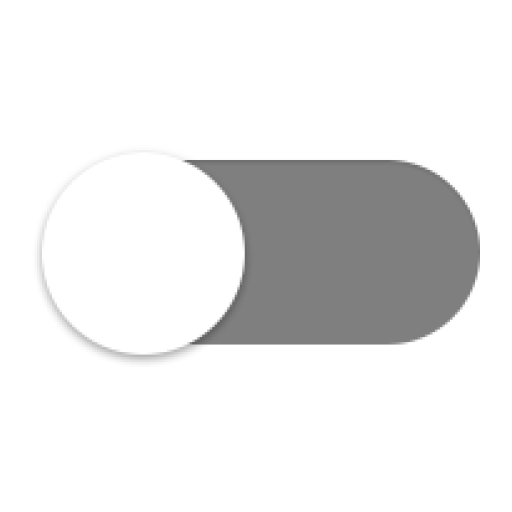
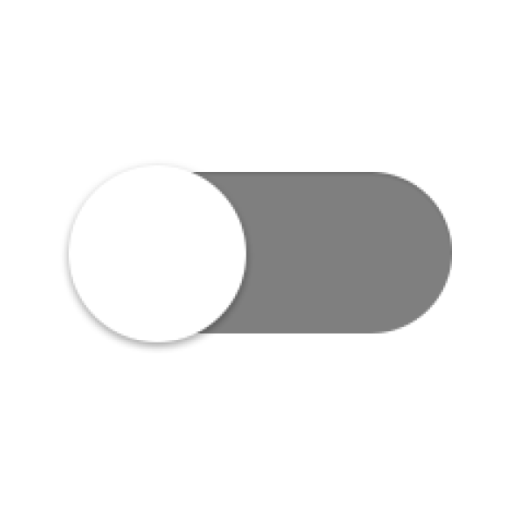
sharedPreference를 활용하여 토글바 기능 구현 50% 구현 완료

diff --git a/app/src/main/java/kr/hs/emirim/parksodam/mirimbreadclock2/notice/MyAlarmAdapter.java b/app/src/main/java/kr/hs/emirim/parksodam/mirimbreadclock2/notice/MyAlarmAdapter.java
@@ -6,6 +6,8 @@ package kr.hs.emirim.parksodam.mirimbreadclock2.notice;
 
 
 import android.content.Context;
+import android.content.SharedPreferences;
+import android.util.Log;
 import android.view.LayoutInflater;
 import android.view.View;
 import android.view.ViewGroup;
@@ -13,19 +15,31 @@ import android.widget.BaseAdapter;
 import android.widget.ImageView;
 import android.widget.TextView;
 
+import com.google.firebase.auth.FirebaseAuth;
+import com.google.firebase.database.DatabaseReference;
+import com.google.firebase.database.FirebaseDatabase;
 import com.squareup.picasso.Picasso;
 
 import java.util.ArrayList;
 
+import kr.hs.emirim.parksodam.mirimbreadclock2.BarActivity;
 import kr.hs.emirim.parksodam.mirimbreadclock2.R;
 import kr.hs.emirim.parksodam.mirimbreadclock2.model.BookmarkBakery;
 
+import static android.content.ContentValues.TAG;
+import static android.content.Context.MODE_PRIVATE;
+
 public class MyAlarmAdapter extends BaseAdapter{
+    public final String PREFERENCE = "kr.hs.emirim.parksodam.mirimbreadclock2.notice";
     /* 아이템을 세트로 담기 위한 어레이 */
     private ArrayList<BookmarkBakery> mItems = new ArrayList<>();
+    private Context theContext;
+    private DatabaseReference mDatabase = FirebaseDatabase.getInstance().getReference();
+    private FirebaseAuth mAuth = FirebaseAuth.getInstance();
+    public MyAlarmAdapter(Context context, ArrayList<BookmarkBakery> mItems) {
 
-    public MyAlarmAdapter(ArrayList<BookmarkBakery> mItems) {
         this.mItems = mItems;
+        theContext = context;
     }
 
     @Override
@@ -51,15 +65,28 @@ public class MyAlarmAdapter extends BaseAdapter{
             LayoutInflater inflater = (LayoutInflater) context.getSystemService(Context.LAYOUT_INFLATER_SERVICE);
             convertView = inflater.inflate(R.layout.listview_alarm_custom, parent, false);
         }
+         /* 각 리스트에 뿌려줄 아이템을 받아오는데 mMyItem 재활용 */
+        final BookmarkBakery bookmarkBakery = getItem(position);
         /* 'listview_info_custom'에 정의된 위젯에 대한 참조 획득 */
         ImageView iv_img = (ImageView) convertView.findViewById(R.id.iv_img);
         TextView tv_name = (TextView) convertView.findViewById(R.id.tv_name);
         TextView tv_contents = (TextView) convertView.findViewById(R.id.tv_contents);
         final ImageView iv_image = (ImageView) convertView.findViewById(R.id.toggle_on);
 
+        if(getPreferenceBoolean(bookmarkBakery.name,bookmarkBakery.checked)){
+            iv_image.setImageResource(R.mipmap.toggle_on);
+            DatabaseReference bookmarkRef = ((BarActivity) theContext).mDatabase.getInstance().getReference("users/" + mAuth.getCurrentUser().getUid() + "/alarms/" + bookmarkBakery.uid);
+            Log.e(TAG, "알람 삭제 : " + bookmarkBakery.uid);
+            bookmarkRef.setValue(null);
+            notifyDataSetChanged();
+        }
+        else{
+            iv_image.setImageResource(R.mipmap.toggle_off);
+            notifyDataSetChanged();
+        }
 
-        /* 각 리스트에 뿌려줄 아이템을 받아오는데 mMyItem 재활용 */
-        final BookmarkBakery bookmarkBakery = getItem(position);
+
+
 
         /* 각 위젯에 세팅된 아이템을 뿌려준다 */
         try {
@@ -77,22 +104,48 @@ public class MyAlarmAdapter extends BaseAdapter{
         tv_contents.setText(bookmarkBakery.vicinity);
 
         /* (위젯에 대한 이벤트리스너를 지정하고 싶다면 여기에 작성하면된다) */
+        //bookmarkBakery.checked = true;
      iv_image.setOnClickListener(new View.OnClickListener() {
          @Override
          public void onClick(View v) {
-
              if (bookmarkBakery.checked) {
-                 iv_image.setImageResource(R.mipmap.toggle_on);
+
+                 //iv_image.setImageResource(R.mipmap.toggle_on);
+                 setPreference(bookmarkBakery.name, bookmarkBakery.checked);
+
+                 Log.e("TAAAAA", position+String.valueOf(getPreferenceBoolean(bookmarkBakery.name,bookmarkBakery.checked)));
                  bookmarkBakery.checked = false;
-                 notifyDataSetChanged();
+
              } else {
-                 iv_image.setImageResource(R.mipmap.toggle_off);
+                 setPreference(bookmarkBakery.name, bookmarkBakery.checked);
+
+                 Log.e("TAAAAA",  position+String.valueOf(getPreferenceBoolean(bookmarkBakery.name,bookmarkBakery.checked)));
                  bookmarkBakery.checked = true;
+
+             }
+             if(getPreferenceBoolean(bookmarkBakery.name,bookmarkBakery.checked)){
+                 iv_image.setImageResource(R.mipmap.toggle_on);
                  notifyDataSetChanged();
              }
+             else{
+                 iv_image.setImageResource(R.mipmap.toggle_off);
+                 notifyDataSetChanged();
+             }
+
          }
      });
         return convertView;
 
+    }
+    public void setPreference(String key, boolean value){
+        SharedPreferences pref = theContext.getSharedPreferences(PREFERENCE, MODE_PRIVATE);
+        SharedPreferences.Editor editor = pref.edit();
+        editor.putBoolean(key, value);
+        editor.commit();
+    }
+    // 데이터 불러오기 함수
+    public boolean getPreferenceBoolean(String key, boolean value){
+        SharedPreferences pref = theContext.getSharedPreferences(PREFERENCE, MODE_PRIVATE);
+        return pref.getBoolean(key, value);
     }
 }

diff --git a/app/src/main/java/kr/hs/emirim/parksodam/mirimbreadclock2/notice/NoticeFragment.java b/app/src/main/java/kr/hs/emirim/parksodam/mirimbreadclock2/notice/NoticeFragment.java
@@ -56,8 +56,6 @@ public class NoticeFragment extends BaseFragment {
 
                 // Write a message to the database
                 if (mAuth != null) {
-
-
                 } else {
                     Intent intent = new Intent(getActivity(), LoginActivity.class);
                     startActivity(intent);
@@ -117,7 +115,7 @@ public class NoticeFragment extends BaseFragment {
                     seachedBakeris.add(bb);
                     Log.e(TAG, "알람 추가한 빵집 : " + bb.name);
                 }
-                mMyAlarmAdapter = new MyAlarmAdapter(seachedBakeris);
+                mMyAlarmAdapter = new MyAlarmAdapter(getActivity(),seachedBakeris);
                 mListView.setAdapter(mMyAlarmAdapter);
                 //mListView.invalidate();
             }
@@ -128,7 +126,6 @@ public class NoticeFragment extends BaseFragment {
             }
         };
         userBookmarkRef.addValueEventListener(userBookmarkListener);
-
 
         return view;
     }
@@ -147,16 +144,13 @@ public class NoticeFragment extends BaseFragment {
         if (mAuthListener != null) {
             mAuth.removeAuthStateListener(mAuthListener);
         }
+        // mMyAlarmAdapter.notifyDataSetChanged();
     }
 
     private void updateUI(FirebaseUser user) {
         if (user != null) {
             Log.e(TAG, "현재 uid : " + user.getUid());
             mAuth = FirebaseAuth.getInstance();
-//            FirebaseDatabase database = FirebaseDatabase.getInstance();
-//            bakery = "베이크팡";
-//            DatabaseReference myRef = database.getReference("BreadClockWeb/Bakeries/BasicInfo/"+bakery+"/Favorites/"+user.getUid());
-//            myRef.setValue(user.getEmail());
         } else {
             Intent intent = new Intent(getActivity(), LoginActivity.class);
             startActivity(intent);

diff --git a/app/src/main/java/kr/hs/emirim/parksodam/mirimbreadclock2/LoginActivity.java b/app/src/main/java/kr/hs/emirim/parksodam/mirimbreadclock2/LoginActivity.java
@@ -1,6 +1,7 @@
 package kr.hs.emirim.parksodam.mirimbreadclock2;
 
 import android.content.Intent;
+import android.content.SharedPreferences;
 import android.os.Bundle;
 import android.support.annotation.NonNull;
 import android.support.v7.app.AppCompatActivity;
@@ -32,6 +33,7 @@ public class LoginActivity extends AppCompatActivity implements
     private static final int RC_SIGN_IN = 9001;
     private GoogleApiClient mGoogleApiClient;
     private FirebaseAuth mAuth;
+    SharedPreferences sp;
     @Override
     protected void onCreate(Bundle savedInstanceState) {
         Log.e(TAG, "들어옴");
@@ -108,7 +110,12 @@ public class LoginActivity extends AppCompatActivity implements
                             updateUI(user);
                             Intent intent = new Intent(LoginActivity.this, BarActivity.class);
                             startActivity(intent);
+                            sp = getSharedPreferences("login",MODE_PRIVATE);
+                            SharedPreferences.Editor editor = sp.edit();
 
+                            editor.putString("login", String.valueOf(mGoogleApiClient));
+                            Log.e( "adegeooo1!!!!",String.valueOf(mGoogleApiClient));
+                            editor.commit();
                         } else {
                             // If sign in fails, display a message to the user.
                             Log.w(TAG, "signInWithCredential:failure", task.getException());
@@ -117,6 +124,7 @@ public class LoginActivity extends AppCompatActivity implements
                             updateUI(null);
                         }
 
+                        sp.getBoolean("logged",false);
                         // [START_EXCLUDE]
                         //hideProgressDialog();
                         // [END_EXCLUDE]

diff --git a/app/src/main/java/kr/hs/emirim/parksodam/mirimbreadclock2/model/BookmarkBakery.java b/app/src/main/java/kr/hs/emirim/parksodam/mirimbreadclock2/model/BookmarkBakery.java
@@ -10,8 +10,8 @@ public class BookmarkBakery {
     public String vicinity;
     public String photo;
     public boolean checked ;
-    public int post;
     public BookmarkBakery() {
+        this.checked=true;
     }
 
     public BookmarkBakery(String uid, String name, String vicinity, String photo, boolean checked) {
@@ -20,10 +20,6 @@ public class BookmarkBakery {
         this.vicinity = vicinity;
         this.photo = photo;
 
-        this.checked=checked;
-    }
-
-    public boolean isChecked(){
-        return checked;
+        this.checked=true;
     }
 }
